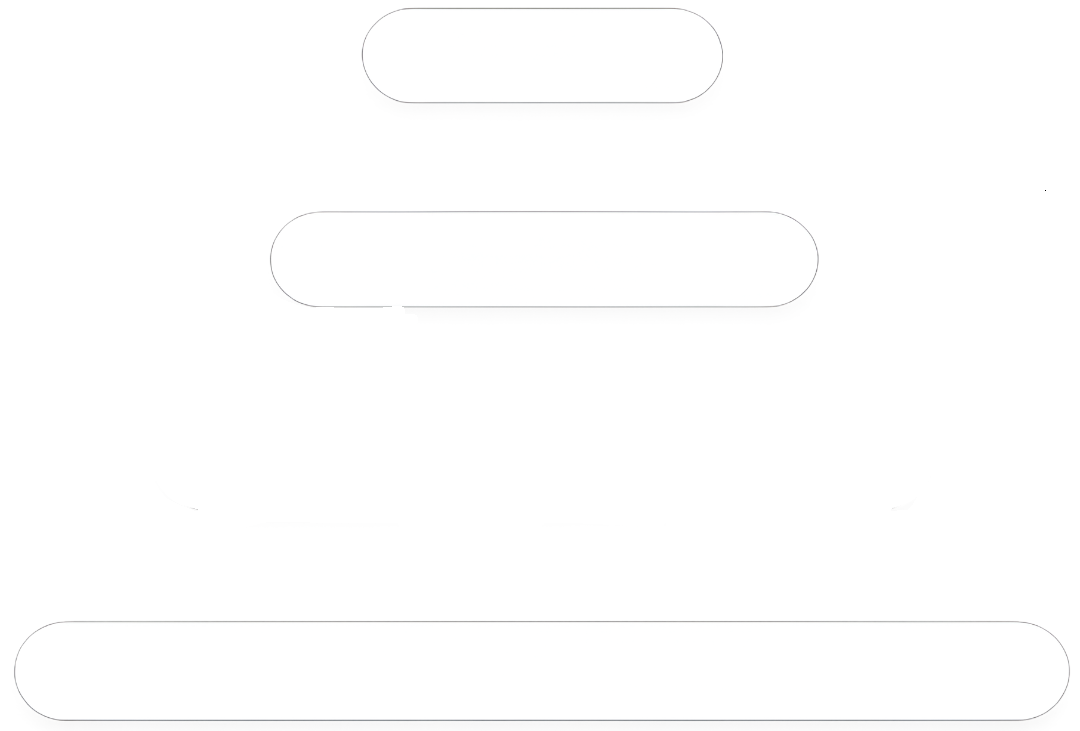
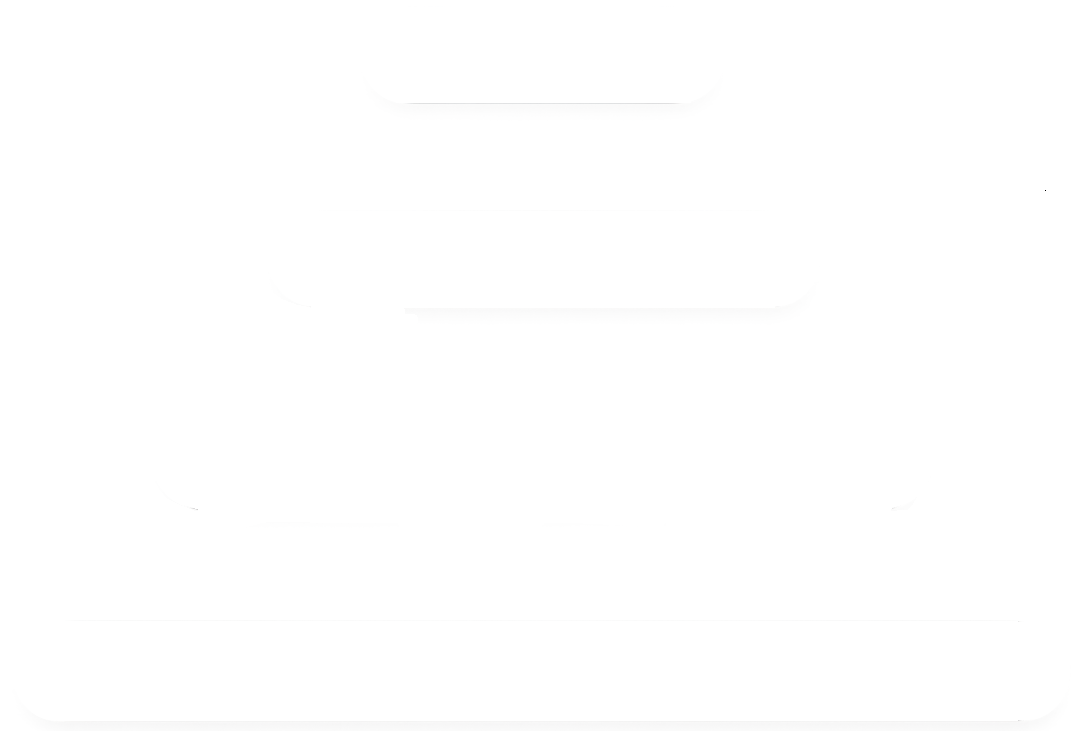
Changes done based on comments made by Mason and completed

diff --git a/content/Components/ProximitySensors.qml b/content/Components/ProximitySensors.qml
@@ -9,20 +9,42 @@ Item {
     height: 180
 
     // === Distance inputs ===
-    // property int sensorLeftDistanceCm: 33
-    // property int sensorCenterLeftDistanceCm: 60
-    // property int sensorCenterRightDistanceCm: 45
-    // property int sensorRightDistanceCm: 15
-    property int sensorLeftDistanceCm
-    property int sensorCenterLeftDistanceCm
-    property int sensorCenterRightDistanceCm
-    property int sensorRightDistanceCm  
+    property int sensorLeftDistance: proximitySensors.ProximitySensor1 
+    property int sensorCenterLeftDistance: proximitySensors.ProximitySensor2
+    property int sensorCenterRightDistance: proximitySensors.ProximitySensor3
+    property int sensorRightDistance: proximitySensors.ProximitySensor4   
 
-    Component.onCompleted: {
-        console.log("Left Sensor Distance:", sensorLeftDistanceCm)
-        console.log("Left-Center Sensor Distance:", sensorCenterLeftDistanceCm)
-        console.log("Right-Center Sensor Distance:", sensorCenterRightDistanceCm)
-        console.log("Right Sensor Distance:", sensorRightDistanceCm)
+    function truncateToDecimal(num, decimals) {
+        var factor = Math.pow(10, decimals);
+        return Math.floor(num * factor) / factor;
+    }
+
+    function getProximityColor(distance) {
+        return distance <= 100 ? Config.proximityRed
+             : distance < 500 ? Config.proximityYellow
+             : distance < 1000 ? Config.proximityYellow
+             : Config.proximityGreen;
+    }
+
+    function getVisibleFraction(distance) {
+        return distance <= 100 ? 0.25
+             : distance < 500 ? 0.50
+             : distance < 1000 ? 0.75
+             : 1.0;
+    }
+
+    function formatDistanceLabel(distance) {
+        var meters = distance / 100.0;
+        return meters < 10
+            ? truncateToDecimal(meters, 1).toFixed(1) + "m"
+            : Math.round(meters) + "m";
+    }
+
+    function getMarginValue(distance, a, b, c, d) {
+        return distance <= 100 ? a
+             : distance < 500 ? b
+             : distance < 1000 ? c
+             : d;
     }
 
     // === Car image ===
@@ -40,108 +62,119 @@ Item {
         id: sensorLeft
         width: carImage.width * 0.375
         height: carImage.height * 0.207
-        anchors { 
-            right: carImage.left
-            top: carImage.bottom
-            rightMargin: 58
-            topMargin: 16
-        }
+        anchors.right: carImage.left
+        anchors.top: carImage.bottom
+        anchors.rightMargin: 58
+        anchors.topMargin: 16
         transform: Rotation {
             origin.x: width / 2
             origin.y: height / 2
             angle: 45
         }
         imageSource: "../Images/ProximitySensorBarsIcon.png"
-        iconMaskColor: sensorLeftDistanceCm <= 20 ? Config.proximityRed
-                    : sensorLeftDistanceCm <= 50 ? Config.proximityYellow
-                    : Config.proximityGreen
-
-        // Set visibleFraction based on sensorLeftDistanceCm:
-        visibleFraction: sensorLeftDistanceCm <= 20 ? 0.25
-                        : sensorLeftDistanceCm < 35 ? 0.50
-                        : sensorLeftDistanceCm <= 50 ? 0.75
-                        : 1.0
+        iconMaskColor: getProximityColor(sensorLeftDistance)
+        visibleFraction: getVisibleFraction(sensorLeftDistance)
     }
-
+    Text {
+        text: formatDistanceLabel(sensorLeftDistance)
+        anchors.right: carImage.left
+        anchors.top: carImage.bottom
+        anchors.rightMargin: getMarginValue(sensorLeftDistance, -18, -12, -5, 2)
+        anchors.topMargin: getMarginValue(sensorLeftDistance, -3, 3, 10, 16)
+        transform: Rotation { angle: 45 }
+        color: getProximityColor(sensorLeftDistance)
+        font.pixelSize: Config.proximityFontSize
+        font.bold: true
+    }
 
     // ========== SENSOR CENTER LEFT ==========
     DashIcon {
         id: sensorCenterLeft
         width: carImage.width * 0.375
         height: carImage.height * 0.213
-        anchors { 
-            horizontalCenter: carImage.horizontalCenter
-            top: carImage.bottom
-            topMargin: 4
-            horizontalCenterOffset: -16
-        }
+        anchors.horizontalCenter: carImage.horizontalCenter
+        anchors.top: carImage.bottom
+        anchors.topMargin: 4
+        anchors.horizontalCenterOffset: -15
         transform: Rotation {
             origin.x: width / 2
             origin.y: height / 2
             angle: 0
         }
         imageSource: "../Images/ProximitySensorBarsIcon.png"
-        iconMaskColor: sensorCenterLeftDistanceCm <= 20 ? Config.proximityRed
-                    : sensorCenterLeftDistanceCm <= 50 ? Config.proximityYellow
-                    : Config.proximityGreen
-        // Set visibleFraction based on sensorLeftDistanceCm:
-        visibleFraction: sensorCenterLeftDistanceCm <= 20 ? 0.25
-                        : sensorCenterLeftDistanceCm < 35 ? 0.50
-                        : sensorCenterLeftDistanceCm <= 50 ? 0.75
-                        : 1.0                    
+        iconMaskColor: getProximityColor(sensorCenterLeftDistance)
+        visibleFraction: getVisibleFraction(sensorCenterLeftDistance)
     }
+    Text {
+        text: formatDistanceLabel(sensorCenterLeftDistance)
+        anchors.horizontalCenter: carImage.horizontalCenter
+        anchors.top: carImage.bottom
+        anchors.topMargin: getMarginValue(sensorCenterLeftDistance, 16, 25, 34, 43)
+        anchors.horizontalCenterOffset: -15
+        transform: Rotation { angle: 0 }
+        color: getProximityColor(sensorCenterLeftDistance)
+        font.pixelSize: Config.proximityFontSize
+        font.bold: true
+    }    
 
     // ========== SENSOR CENTER RIGHT ==========
     DashIcon {
         id: sensorCenterRight
         width: carImage.width * 0.375
         height: carImage.height * 0.213
-        anchors { 
-            horizontalCenter: carImage.horizontalCenter
-            top: carImage.bottom
-            topMargin: 4
-            horizontalCenterOffset: 18
-        }
+        anchors.horizontalCenter: carImage.horizontalCenter
+        anchors.top: carImage.bottom
+        anchors.topMargin: 4
+        anchors.horizontalCenterOffset: 16
         transform: Rotation {
             origin.x: width / 2
             origin.y: height / 2
             angle: 0
         }
         imageSource: "../Images/ProximitySensorBarsIcon.png"
-        iconMaskColor: sensorCenterRightDistanceCm <= 20 ? Config.proximityRed
-                    : sensorCenterRightDistanceCm <= 50 ? Config.proximityYellow
-                    : Config.proximityGreen
-        // Set visibleFraction based on sensorLeftDistanceCm:
-        visibleFraction: sensorCenterRightDistanceCm <= 20 ? 0.25
-                        : sensorCenterRightDistanceCm < 35 ? 0.50
-                        : sensorCenterRightDistanceCm <= 50 ? 0.75
-                        : 1.0                    
-    }    
+        iconMaskColor: getProximityColor(sensorCenterRightDistance)
+        visibleFraction: getVisibleFraction(sensorCenterRightDistance)
+    } 
+    Text {
+        text: formatDistanceLabel(sensorCenterRightDistance)
+        anchors.horizontalCenter: carImage.horizontalCenter
+        anchors.top: carImage.bottom
+        anchors.topMargin: getMarginValue(sensorCenterRightDistance, 16, 25, 34, 43)
+        anchors.horizontalCenterOffset: 17
+        transform: Rotation { angle: 0 }
+        color: getProximityColor(sensorCenterRightDistance)
+        font.pixelSize: Config.proximityFontSize
+        font.bold: true
+    }        
 
     // ========== SENSOR RIGHT ==========
     DashIcon {
         id: sensorRight
         width: carImage.width * 0.375
         height: carImage.height * 0.207
-        anchors { 
-            left: carImage.right
-            top: carImage.bottom
-            leftMargin: 25
-            topMargin: -68
-        }
+        anchors.left: carImage.right
+        anchors.top: carImage.bottom
+        anchors.leftMargin: 25
+        anchors.topMargin: -68
         transform: Rotation {
             origin.x: width / 2
             origin.y: height / 2
             angle: -45
         }
         imageSource: "../Images/ProximitySensorBarsIcon.png"
-        iconMaskColor: sensorRightDistanceCm <= 20 ? Config.proximityRed
-                    : sensorRightDistanceCm <= 50 ? Config.proximityYellow
-                    : Config.proximityGreen
-        // Set visibleFraction based on sensorLeftDistanceCm:
-        visibleFraction: sensorRightDistanceCm <= 20 ? 0.25
-                        : sensorRightDistanceCm < 35 ? 0.50
-                        : sensorRightDistanceCm <= 50 ? 0.75
-                        : 1.0                    
-    }     
+        iconMaskColor: getProximityColor(sensorRightDistance)
+        visibleFraction: getVisibleFraction(sensorRightDistance)
+    }    
+
+    Text {
+        text: formatDistanceLabel(sensorRightDistance)
+        anchors.left: carImage.right
+        anchors.top: carImage.bottom
+        anchors.leftMargin: getMarginValue(sensorRightDistance, -8, -2, 6, 11)
+        anchors.topMargin: getMarginValue(sensorRightDistance, 18, 25, 31, 36)
+        transform: Rotation { angle: -45 }
+        color: getProximityColor(sensorRightDistance)
+        font.pixelSize: Config.proximityFontSize
+        font.bold: true
+    }       
 }

diff --git a/content/Clusters/RaceCluster.qml b/content/Clusters/RaceCluster.qml
@@ -108,10 +108,6 @@ Item {
         id: proximitySensorsIcon
         x: 600
         y: 115
-        sensorLeftDistanceCm: proximitySensors.ProximitySensor1 
-        sensorCenterLeftDistanceCm: proximitySensors.ProximitySensor2
-        sensorCenterRightDistanceCm: proximitySensors.ProximitySensor3
-        sensorRightDistanceCm: proximitySensors.ProximitySensor4
     }
 
     ThreeQuarterGauge {

diff --git a/content/Config/Config.qml b/content/Config/Config.qml
@@ -70,5 +70,7 @@ QtObject {
 
     property color proximityRed: "#ff0000"   
     property color proximityYellow: "#f9ff33"   
-    property color proximityGreen: "#2dcd10"            
+    property color proximityGreen: "#2dcd10"
+    property int proximityFontSize: 12
+
 }
